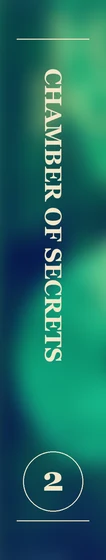
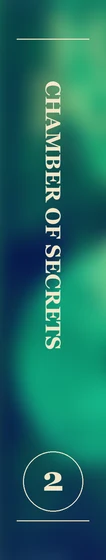
Kitoblar: jild yonidagi nomlar bir xil o'lchamda

Changed region(s): [[0.3962, 0.1214, 0.5943, 0.6679]]

diff --git a/js/07-kitoblar.js b/js/07-kitoblar.js
@@ -111,7 +111,7 @@
   function ktX() { return KT_TX[lang] || KT_TX.uz; }
   function ktNum(id) { return parseInt(id.charAt(2), 10); }
   function ktName(id) { return (KT_NOM[lang] || KT_NOM.uz)[ktNum(id) - 1]; }
-  var KT_RASM_V = "5";      // muqova rasmlari almashganda oshiring (fayl nomi o'sha - brauzer eskisini keshdan bermasin)
+  var KT_RASM_V = "6";      // muqova rasmlari almashganda oshiring (fayl nomi o'sha - brauzer eskisini keshdan bermasin)
   function ktArt(id) { return IMG_DIR + "kitob/" + id + ".webp?v=" + KT_RASM_V; }
   function ktBook(id) {
     var list = (ktData && ktData.books) || [];

diff --git a/index.html b/index.html
@@ -1645,7 +1645,7 @@
 <script src="js/05-umumiy.js?v=f5f0a218"></script>
 <script src="js/06-soundtrack.js?v=2f23168c"></script>
 <script src="js/07-kutubxona.js?v=e2607678"></script>
-<script src="js/07-kitoblar.js?v=8bbf3928"></script>
+<script src="js/07-kitoblar.js?v=793767af"></script>
 <script src="js/07-kitob-matn.js?v=053ca97b"></script>
 <script src="js/07-odam.js?v=18ed3043"></script>
 <script src="js/08-saralash.js?v=15498b02"></script>
